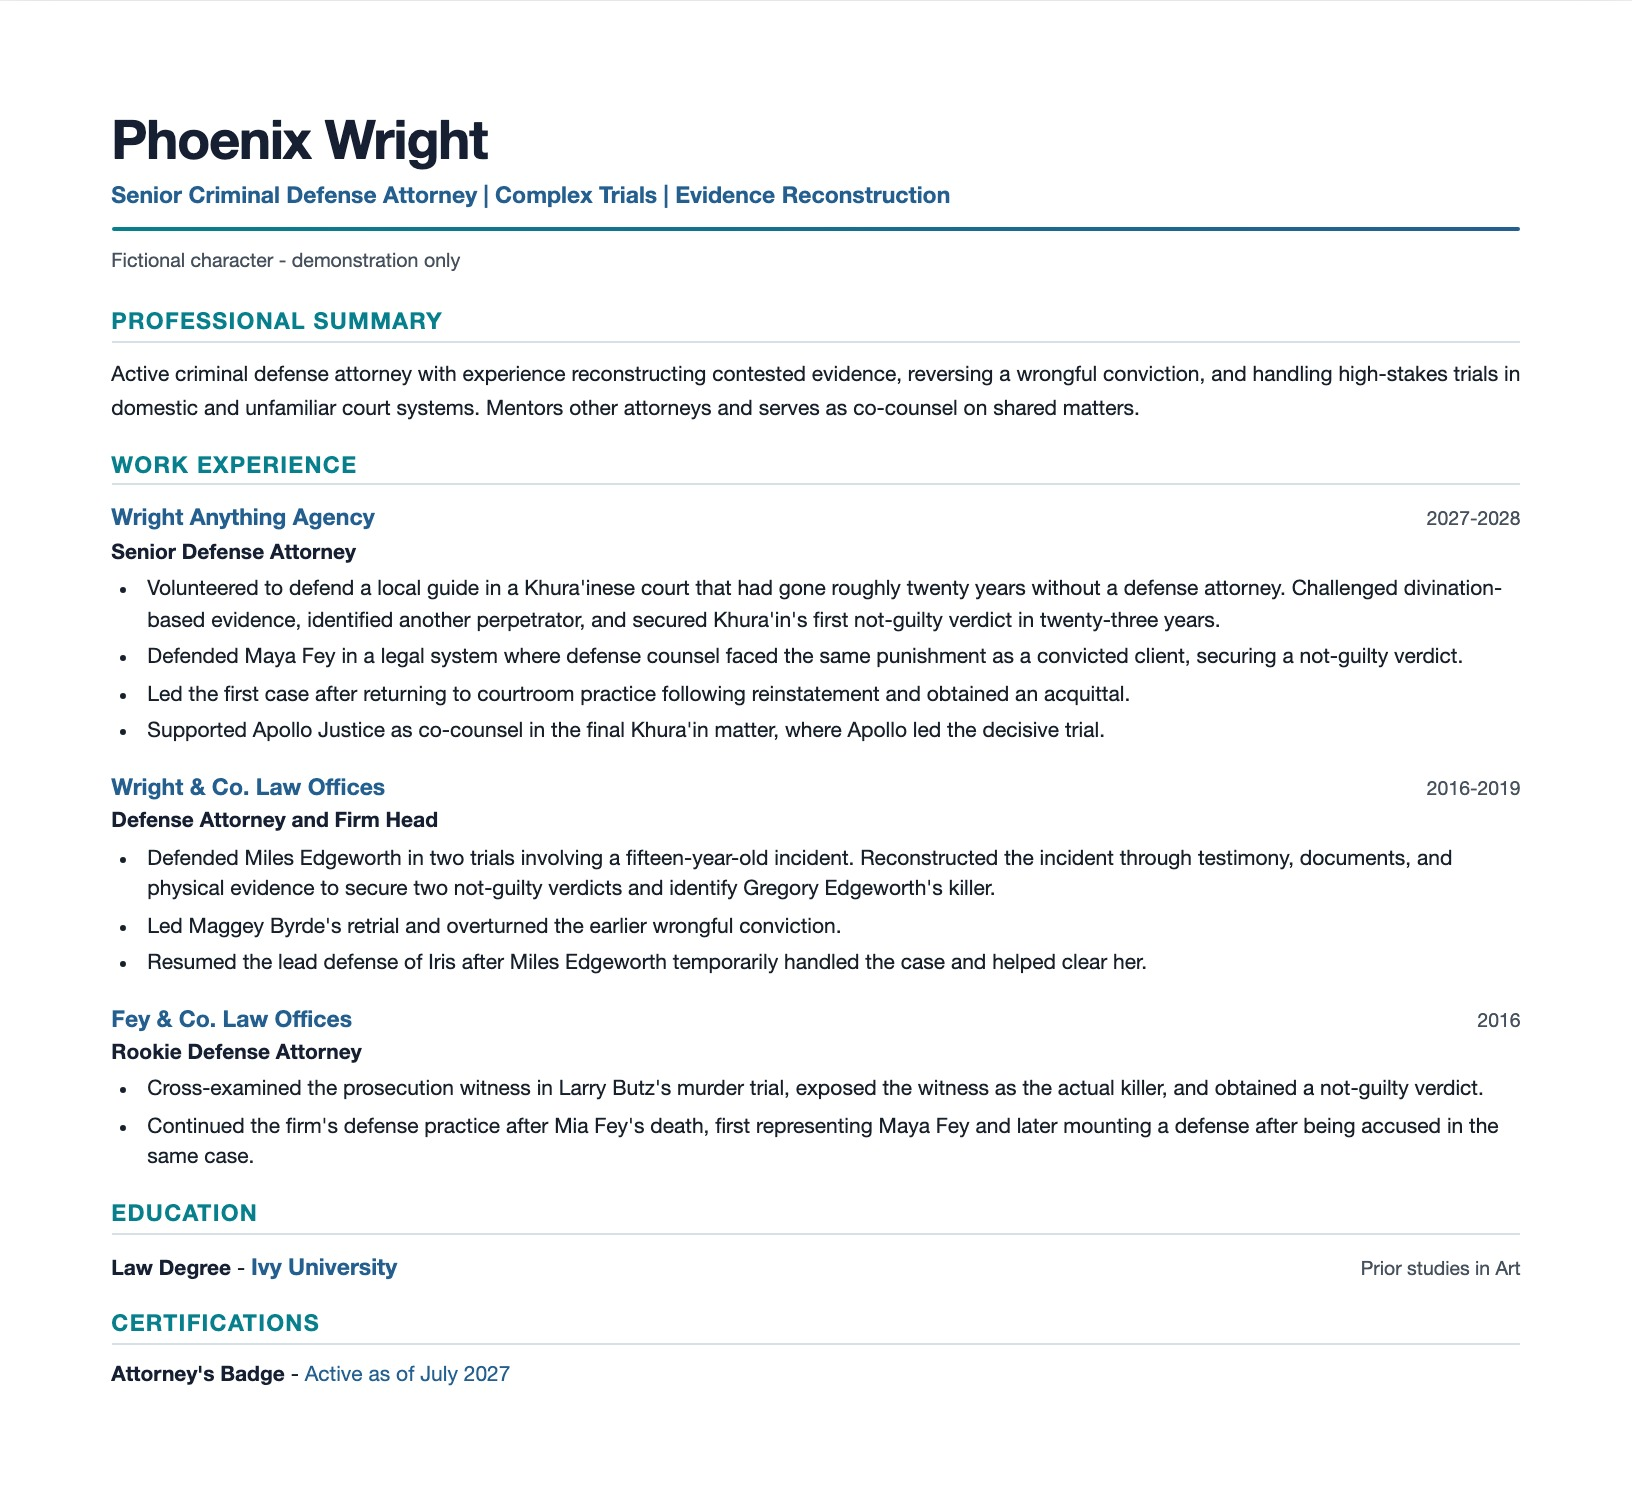
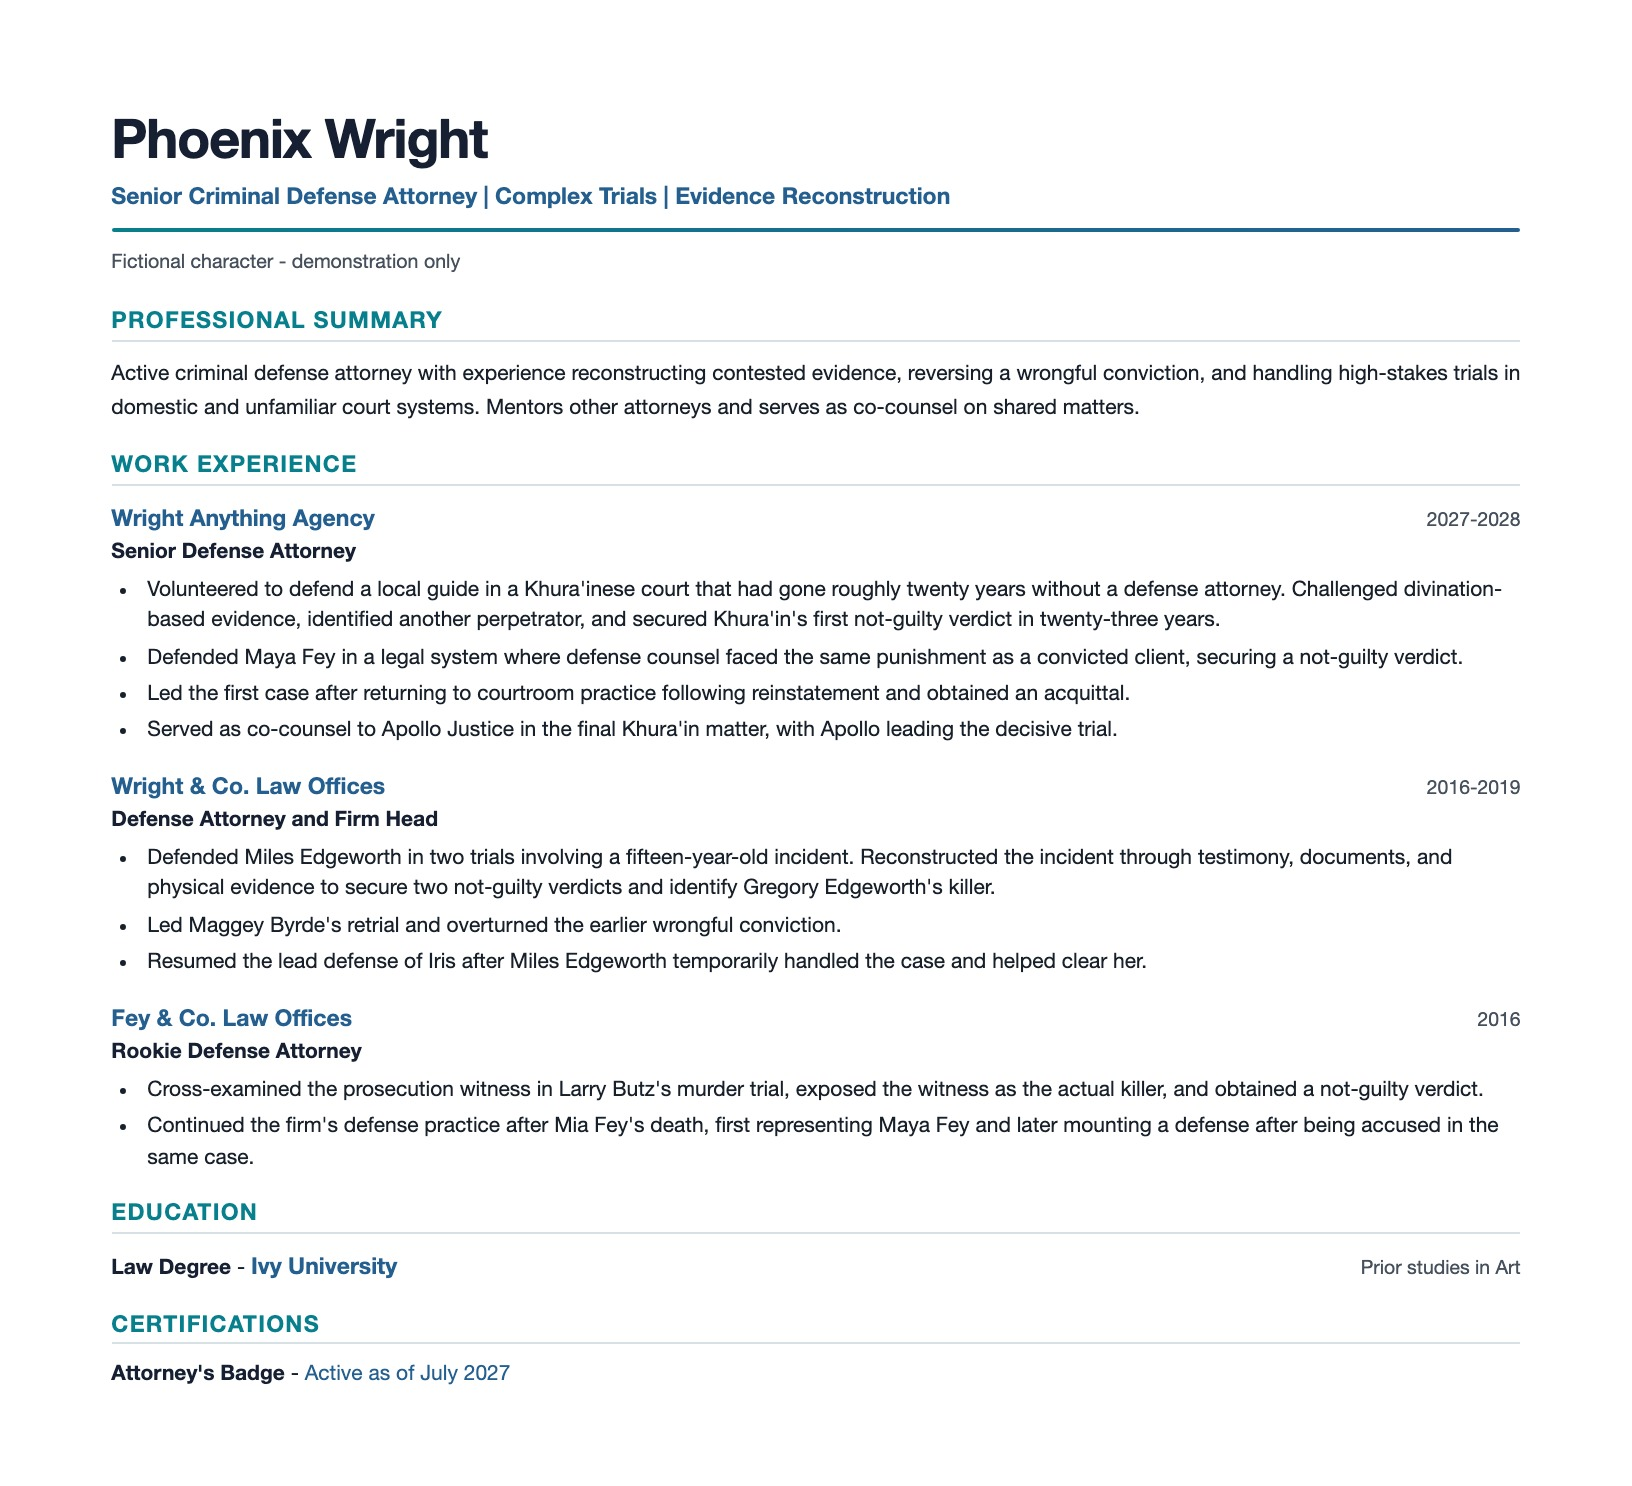
Improve formal-position resume review

diff --git a/src/resume_builder/language_review.py b/src/resume_builder/language_review.py
@@ -19,7 +19,7 @@ LANGUAGE_REVIEW_METHOD = "independent-cold-review"
 LANGUAGE_REVIEW_STATUSES = {"approved", "changes-required"}
 LANGUAGE_BLOCK_DECISIONS = {"approved", "revise"}
 LANGUAGE_REVIEW_STANDARD = {
-    "version": 4,
+    "version": 5,
     "context_test": (
         "Can a reviewer identify the actor, action, object, and why the claim matters "
         "using only the visible block and its supplied context?"
@@ -31,7 +31,10 @@ LANGUAGE_REVIEW_STANDARD = {
     "concrete_object_rule": (
         "Judge whether the action's object identifies a decision-relevant system, "
         "deliverable, operation, or change. Reject a grammatically complete but "
-        "semantically generic object when the reader still cannot tell what work occurred."
+        "semantically generic object when the reader still cannot tell what work occurred. "
+        "A clearly named position, formal assignment, or trusted role may itself be the "
+        "decision-relevant value when its relationship and scope are explicit; do not require "
+        "an invented task, deliverable, or outcome to make that position valid."
     ),
     "summary_inventory_rule": (
         "Reject a summary sentence whose main function is to inventory technologies, "

diff --git a/tests/test_compilation.py b/tests/test_compilation.py
@@ -828,10 +828,14 @@ def test_language_review_reuses_unchanged_approved_blocks(tmp_path: Path) -> Non
     assert "email" not in json.dumps(context).casefold()
     assert "PROFILE-001" not in json.dumps(context)
     assert cold["review_standard"] == language_review.LANGUAGE_REVIEW_STANDARD
-    assert cold["review_standard"]["version"] == 4
+    assert cold["review_standard"]["version"] == 5
     assert "actor, action, object" in cold["review_standard"]["context_test"]
     assert "unstated premise" in cold["review_standard"]["unstated_premise_rule"]
     assert "semantically generic object" in cold["review_standard"]["concrete_object_rule"]
+    assert "clearly named position" in cold["review_standard"]["concrete_object_rule"]
+    assert (
+        "invented task, deliverable, or outcome" in cold["review_standard"]["concrete_object_rule"]
+    )
     assert (
         "system, deliverable, operation, or change"
         in cold["review_standard"]["concrete_object_rule"]

diff --git a/examples/phoenix-wright/workspace/resumes/baselines/senior-defense-attorney.md b/examples/phoenix-wright/workspace/resumes/baselines/senior-defense-attorney.md
@@ -17,10 +17,10 @@ Active criminal defense attorney with experience reconstructing contested eviden
 
 ## Wright Anything Agency | Senior Defense Attorney | 2027–2028 <!-- evidence: WAA-003 -->
 
-- Volunteered to defend a local guide in a Khura'inese court that had gone roughly twenty years without a defense attorney. Challenged divination-based evidence, identified another perpetrator, and secured Khura'in's first not-guilty verdict in twenty-three years. <!-- evidence: WAA-013 --><!-- story: khurain-first-defense -->
+- Secured Khura'in's first not-guilty verdict in twenty-three years by challenging inconsistencies in divination-based evidence and proving another person committed the crime. <!-- evidence: WAA-013 --><!-- story: khurain-first-defense -->
 - Defended Maya Fey in a legal system where defense counsel faced the same punishment as a convicted client, securing a not-guilty verdict. <!-- evidence: WAA-014 --><!-- story: culpability-act-defense -->
 - Led the first case after returning to courtroom practice following reinstatement and obtained an acquittal. <!-- evidence: WAA-012 --><!-- story: return-to-practice -->
-- Supported Apollo Justice as co-counsel in the final Khura'in matter, where Apollo led the decisive trial. <!-- evidence: WAA-015 --><!-- story: apollo-co-counsel -->
+- Served as co-counsel to Apollo Justice in the final Khura'in matter, with Apollo leading the decisive trial. <!-- evidence: WAA-015 --><!-- story: apollo-co-counsel -->
 
 ## Wright & Co. Law Offices | Defense Attorney and Firm Head | 2016–2019 <!-- evidence: WAA-001 -->
 

diff --git a/.agents/skills/critique-resume/references/critique-contract.md b/.agents/skills/critique-resume/references/critique-contract.md
@@ -146,6 +146,12 @@ scale, breadth, or differentiation. Do not preserve an item merely because it
 is factually supported; preserve it only when it strengthens this bullet's one
 claim.
 
+A clearly named position, formal assignment, or trusted role may itself be the
+bullet's hiring claim when the relationship and scope make its value legible.
+Do not force every such signal to name a separate task, deliverable, or outcome,
+and never invent one merely to satisfy an accomplishment pattern. Judge whether
+the appointment is relevant and specific enough to earn space in the role arc.
+
 Apply the resume-quality contract's direct-relationship and opening-rhythm
 checks during this gate. A constructed modifier should be revised when it makes
 the reader infer what a technology did in the work, and repeated opening verbs
